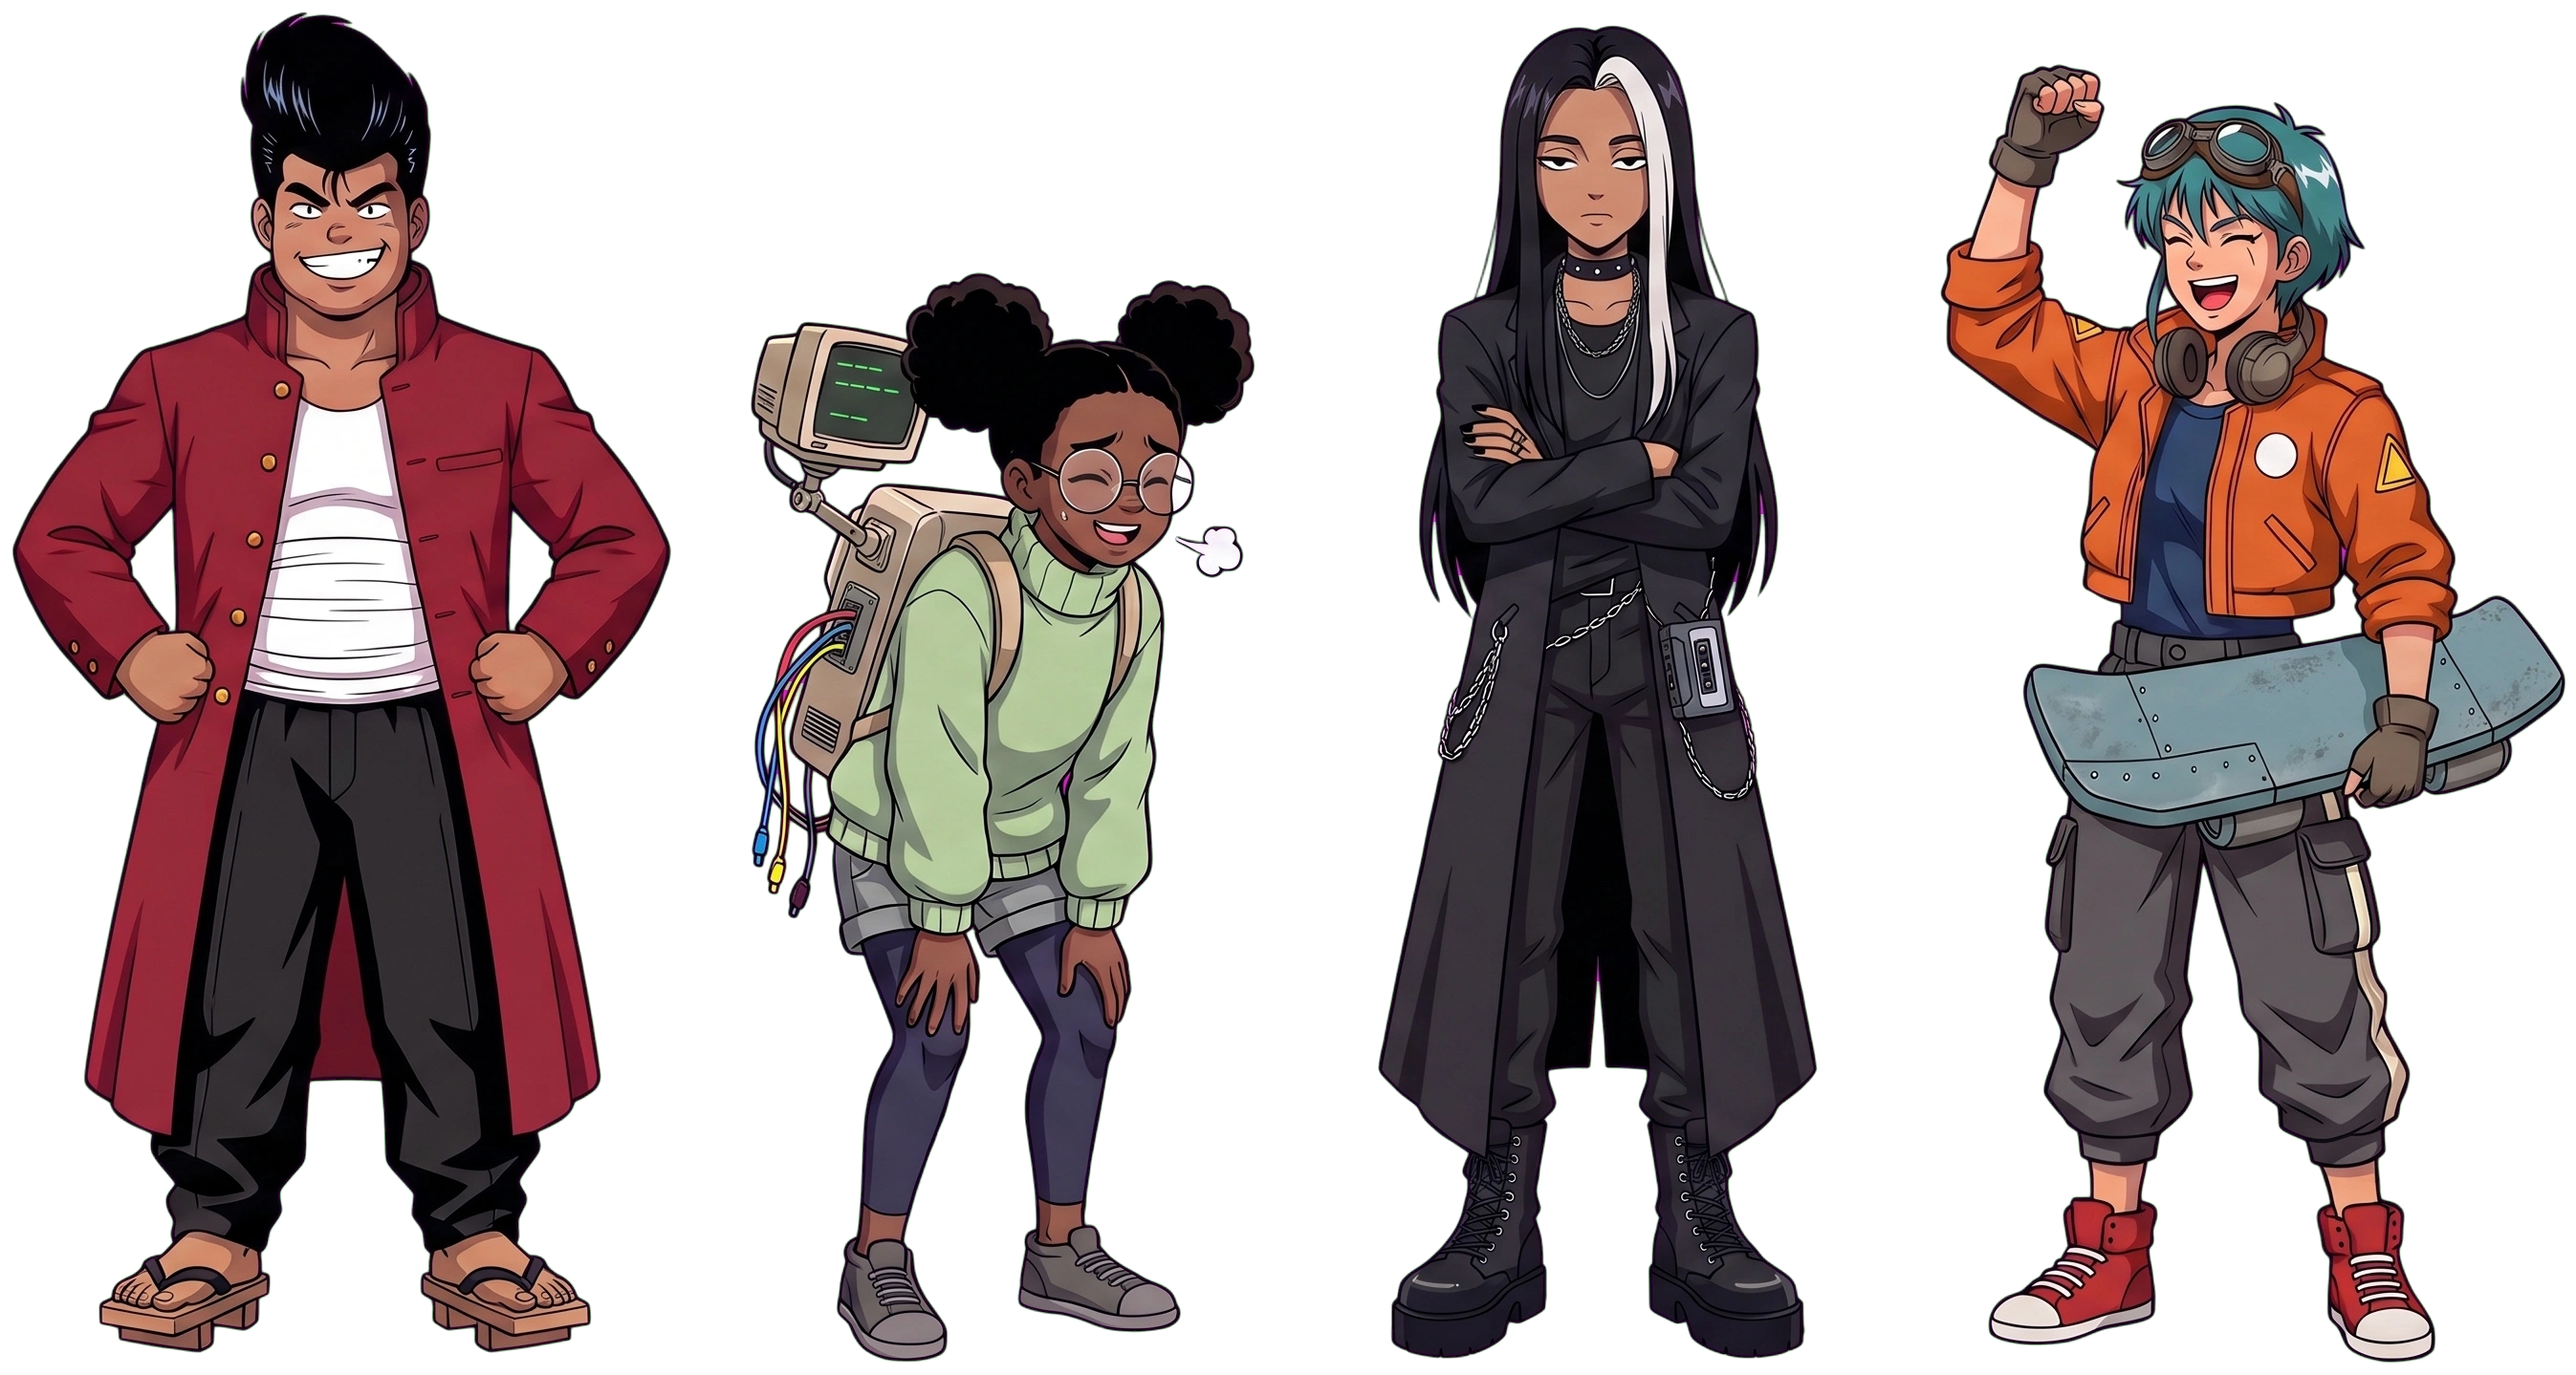
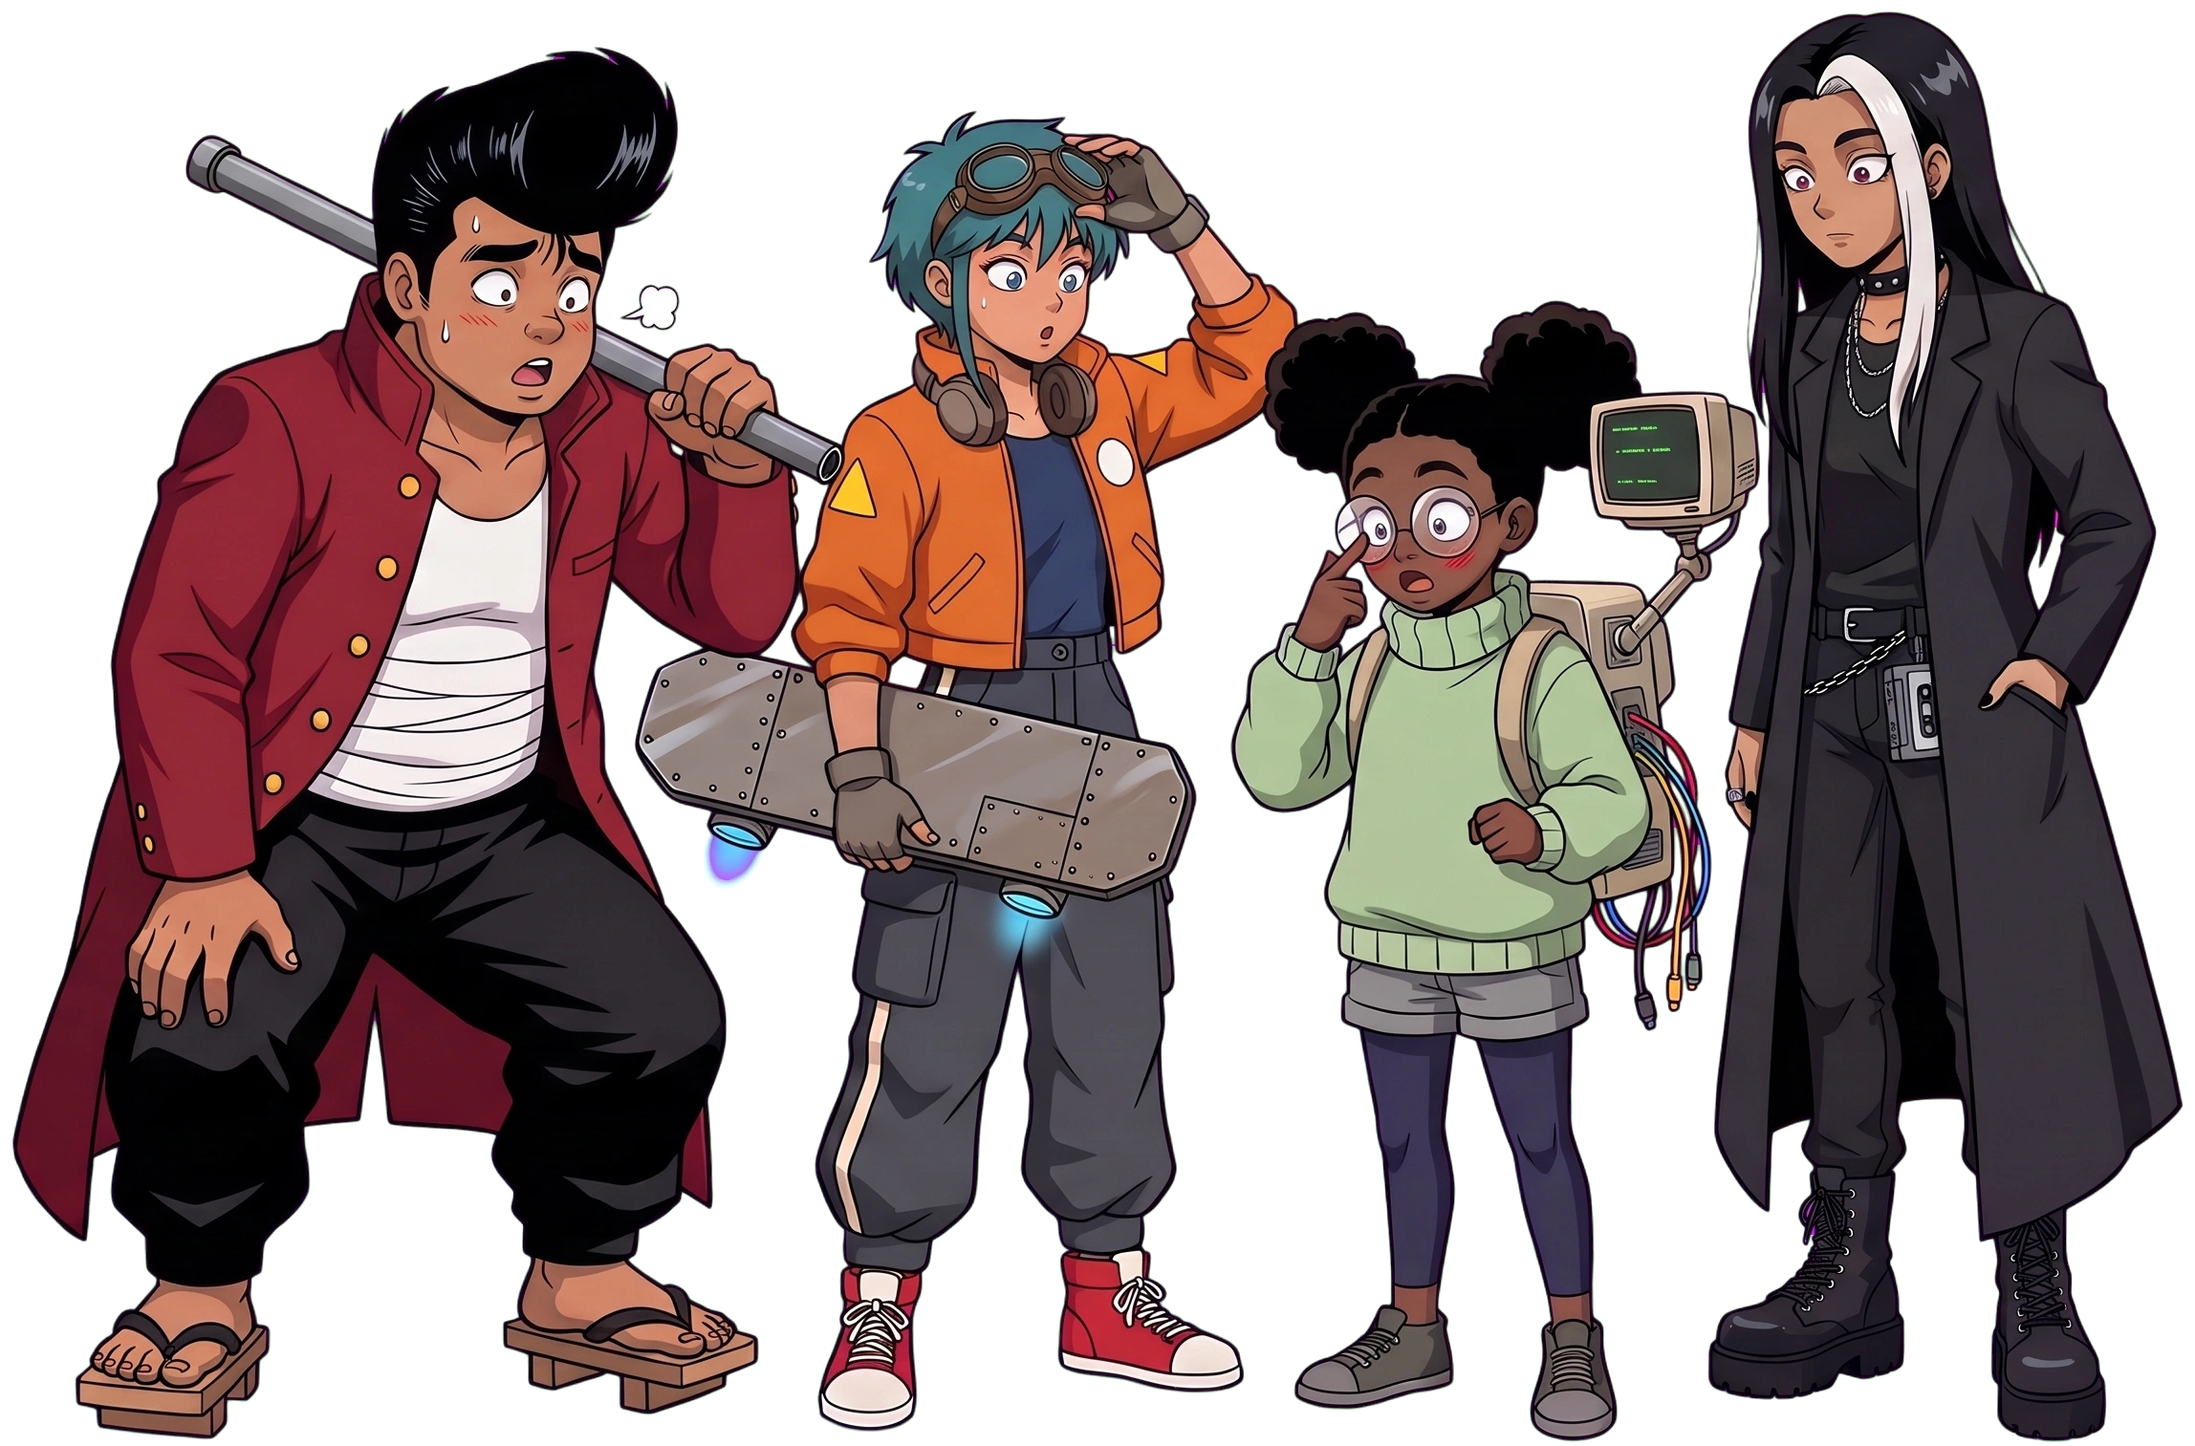
The fall begins on the reunion's own last drawing of the four
Its first shot was painted before the reunion's ending existed, with the four in another order and without
Tane's pipe. It now hangs a copy of reun_grin_2 (the four in their row, looking down) over the pit, so the cut is
on a held pose, and its two changes of face (they look up at us, blank; each makes the face they will fall with)
are edits of that drawing.

diff --git a/shots/fall_hang.js b/shots/fall_hang.js
@@ -1,20 +1,24 @@
 // Fall 1, 146.33-147.17 s: THE FLOOR IS GONE. The deck has let go: where it was there is the mouth of a shaft, the
 // slab they stood on is dropping away down it, and the four are standing where they stood, on nothing, over the pit,
-// still grinning. On the strings (3519) all four look down. On the strings again (3525) all four look at us. Then
-// the brass, and the next shot. One drawing of the four together and two edits of it. The pit is the set
+// still looking down at where it was. On the strings (3519) all four look up, at us, blank. On the strings again
+// (3525) each has the face they will fall with: he grins, she laughs, she begins to scream, they sigh. Then the
+// brass, and the next shot. The drawing is the reunion's own last drawing of the four (looking down), so the cut
+// is on a held pose, and the two changes of face are edits of it. The pit is the set
 // (sets/shaft.js, open at the top); what is above its rim (the deck beyond, its rail, the atrium's night) is painted
 // here by the film.
-// JOIN: the shot before (shots/reun_end.js) ends on the bridge with the deck unlocking; this is a cut to a new angle,
-// so nothing has to match but who stands where: ROW, left to right as the camera sees them.
+// JOIN: the shot before (shots/reun_fight.js `unlock`, its last frame stated at the top of that file) is the four in
+// a row across the gantry, facing its camera, from screen left TANE (the pipe on his shoulder), JUNO (the board under
+// her arm), IFE, NOOR, all looking down, the deck dropped 0.3 m under them. This is a cut to a wider, higher angle
+// on the same row in the same drawing (kits/tane/closeup/fall_hang_5.jpg is a copy of their reun_grin_2.jpg).
 import { CUT, EV, W, H, shot, plates, at3d, ease, clamp, rnd } from "./fall_cast.js";
-const ROW = "tane, ife, noor, juno";      // as painted (kits/tane/closeup/fall_hang_2.jpg); repaint the plate if the reunion ends otherwise
-const CAM = { pos: [0.5, 2.25, -7.6], target: [0, 0.78, 0], fov: 23.5 }, R = 8, NIGHT = { tint: [0.9, 0.76, 0.86], rim: [1.0, 0.45, 0.4], rimDir: [0, 7], gradient: 0.2, gradientY: [0.15, 0.6] };
+const ROW = "tane, juno, ife, noor";      // as the reunion leaves them; if its last drawing changes, copy it again and redo the two edits (pipeline/paint.py tane edit ...)
+const CAM = { pos: [0.5, 2.25, -7.6], target: [0, 0.8, 0], fov: 18.5 }, R = 8, NIGHT = { tint: [0.9, 0.76, 0.86], rim: [1.0, 0.45, 0.4], rimDir: [0, 7], gradient: 0.2, gradientY: [0.15, 0.6] };
 const path = (g, l) => { g.beginPath(); l.forEach((p, i) => (i ? g.lineTo(p.x, p.y) : g.moveTo(p.x, p.y))); g.closePath(); };
 function frame(f) {
-  const F = CUT.hang + f, look = F < EV.down ? 0 : F < EV.out ? 2 : 1;
+  const F = CUT.hang + f, look = F < EV.down ? 0 : F < EV.out ? 1 : 2;
   // the breath before the drop: they stretch a hand's width up, as one
   const up = f >= 17 ? [0.012, 0.03, 0.045][f - 17] : 0, jolt = F === EV.down || F === EV.out ? -5 : 0;
-  const c = at3d(CAM, "tane.hang", look, [0, 0.955 + up * 2, 0], 0.00133 * (1 + up), { layer: NIGHT });
+  const c = at3d(CAM, "tane.hang", look, [0, 0.96 + up * 2, 0], 0.00127 * (1 + up), { layer: NIGHT });
   return { set: "shaft", camera: CAM, options: { hatch: 0, rooms: 0.95, lamps: 0.9, fog: 0.02 }, cels: [{ ...c, y: c.y + jolt }],
     under(g, cam) {
       const pr = (x, y, z) => cam.project([x, y, z]);
@@ -46,4 +50,4 @@ function frame(f) {
     post: { flash: f === 0 ? 0.12 : 0, bloom: 0.6, vignette: 0.5, contrast: 0.32 } };
 }
 export default shot("hang", { cutOn: "strings", plates: plates("tane.hang"), row: ROW,
-  marks: [{ at: EV.down - CUT.hang, what: "all four look down", on: "strings" }, { at: EV.out - CUT.hang, what: "all four look at us", on: "strings" }], frame });
+  marks: [{ at: EV.down - CUT.hang, what: "all four look up at us", on: "strings" }, { at: EV.out - CUT.hang, what: "each makes the face they will fall with", on: "strings" }], frame });

diff --git a/shots/fall_cast.js b/shots/fall_cast.js
@@ -7,8 +7,8 @@
 // by 3805; a SYNTH comes up from 3816 and holds to 3900, dying away by 3945 (its notes are the `other` and `guitar`
 // stems' onsets: 3807 ... 3905); the file is silent from about 3936 and ends at 3955. So the cuts hang on the bass
 // and brass onsets, the events inside the shots on the strings', and the last close-ups on the synth's phrases:
-//   hang    3512  under the bridge, looking up through the hatch where the deck was: the four stand on nothing.
-//                 They look down (3519). They look at us (3525).
+//   hang    3512  the deck is gone and there is a shaft's mouth where it was: the four stand on nothing, looking
+//                 down. They look up at us (3519). Each makes the face they will fall with (3525).
 //   drop    3532  (brass) from the hatch, straight down: they drop away into the shaft and the camera lets go after them
 //   side    3582  (bass) beside them, falling at their speed: each falls in their own way, the station going up past
 //                 them: the plant, the core, the tunnel

diff --git a/shots/fall_sprites.js b/shots/fall_sprites.js
@@ -317,13 +317,13 @@ export const SPRITES = {
    "/kits/tane/fall/hang_1.webp",
    "/kits/tane/fall/hang_2.webp"
   ],
-  "w": 2694,
-  "h": 1439,
+  "w": 2296,
+  "h": 1513,
   "box": [
-   58,
-   77,
-   2752,
-   1516
+   207,
+   23,
+   2503,
+   1536
   ],
   "of": [
    2752,
